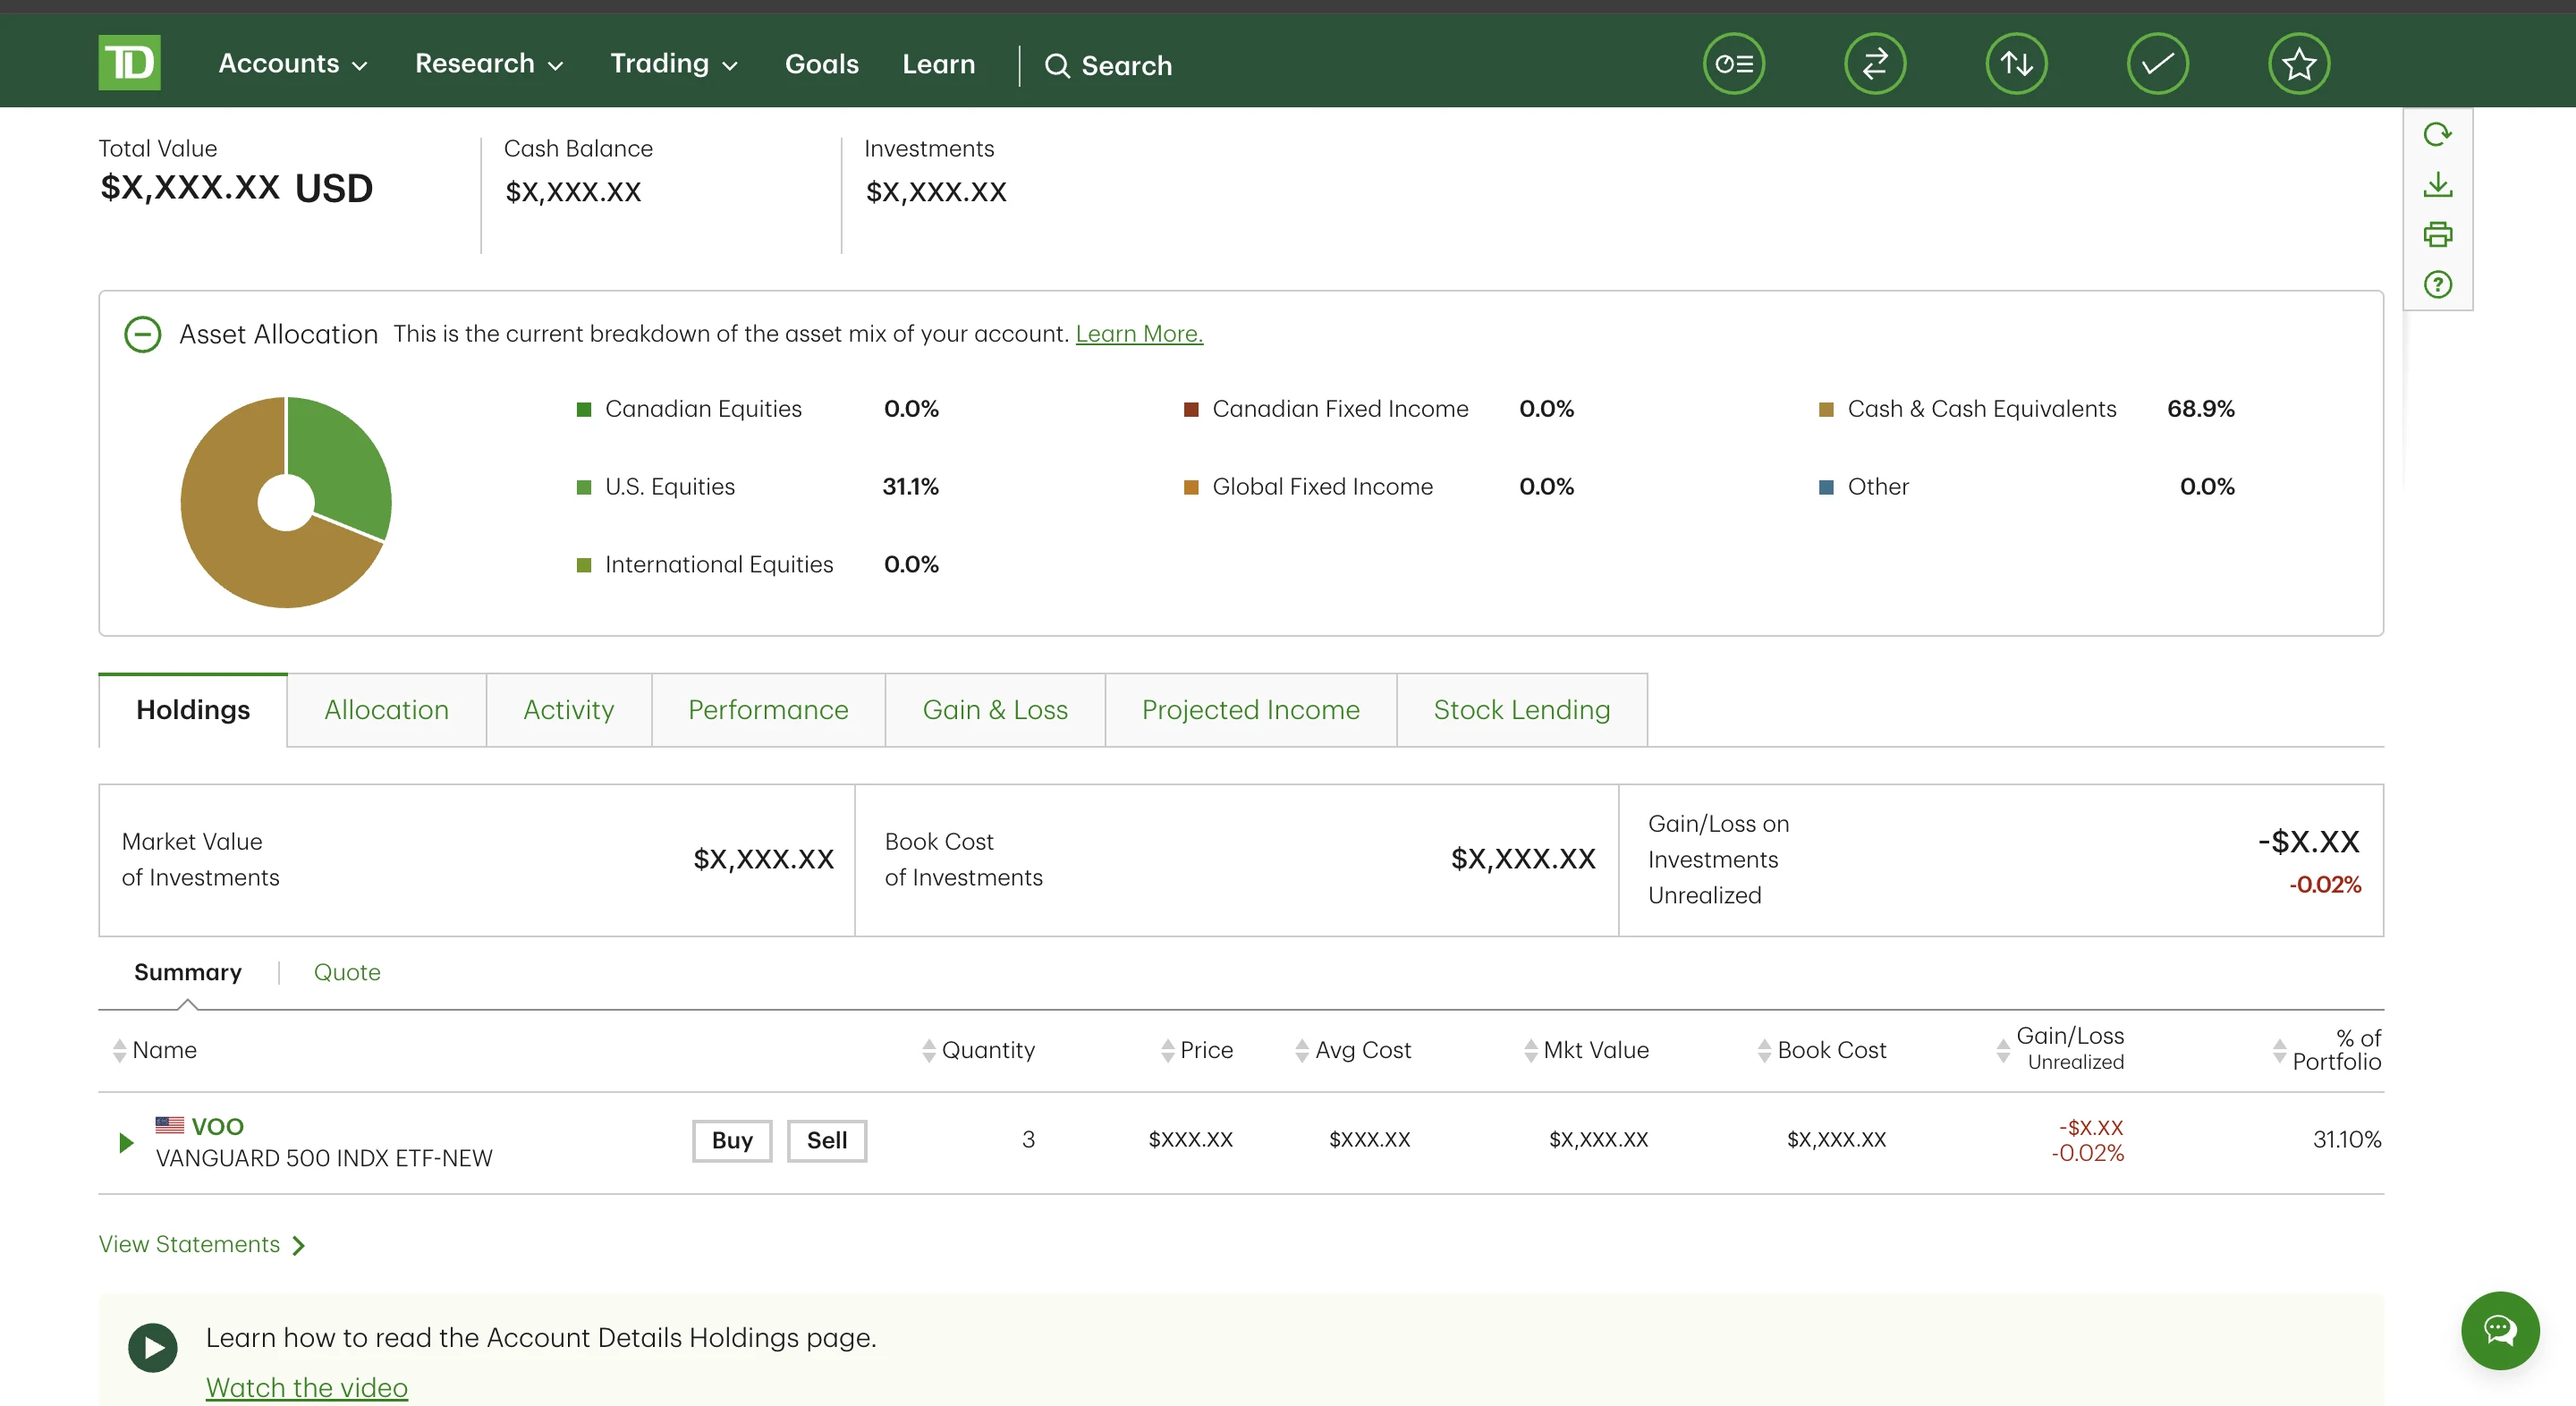
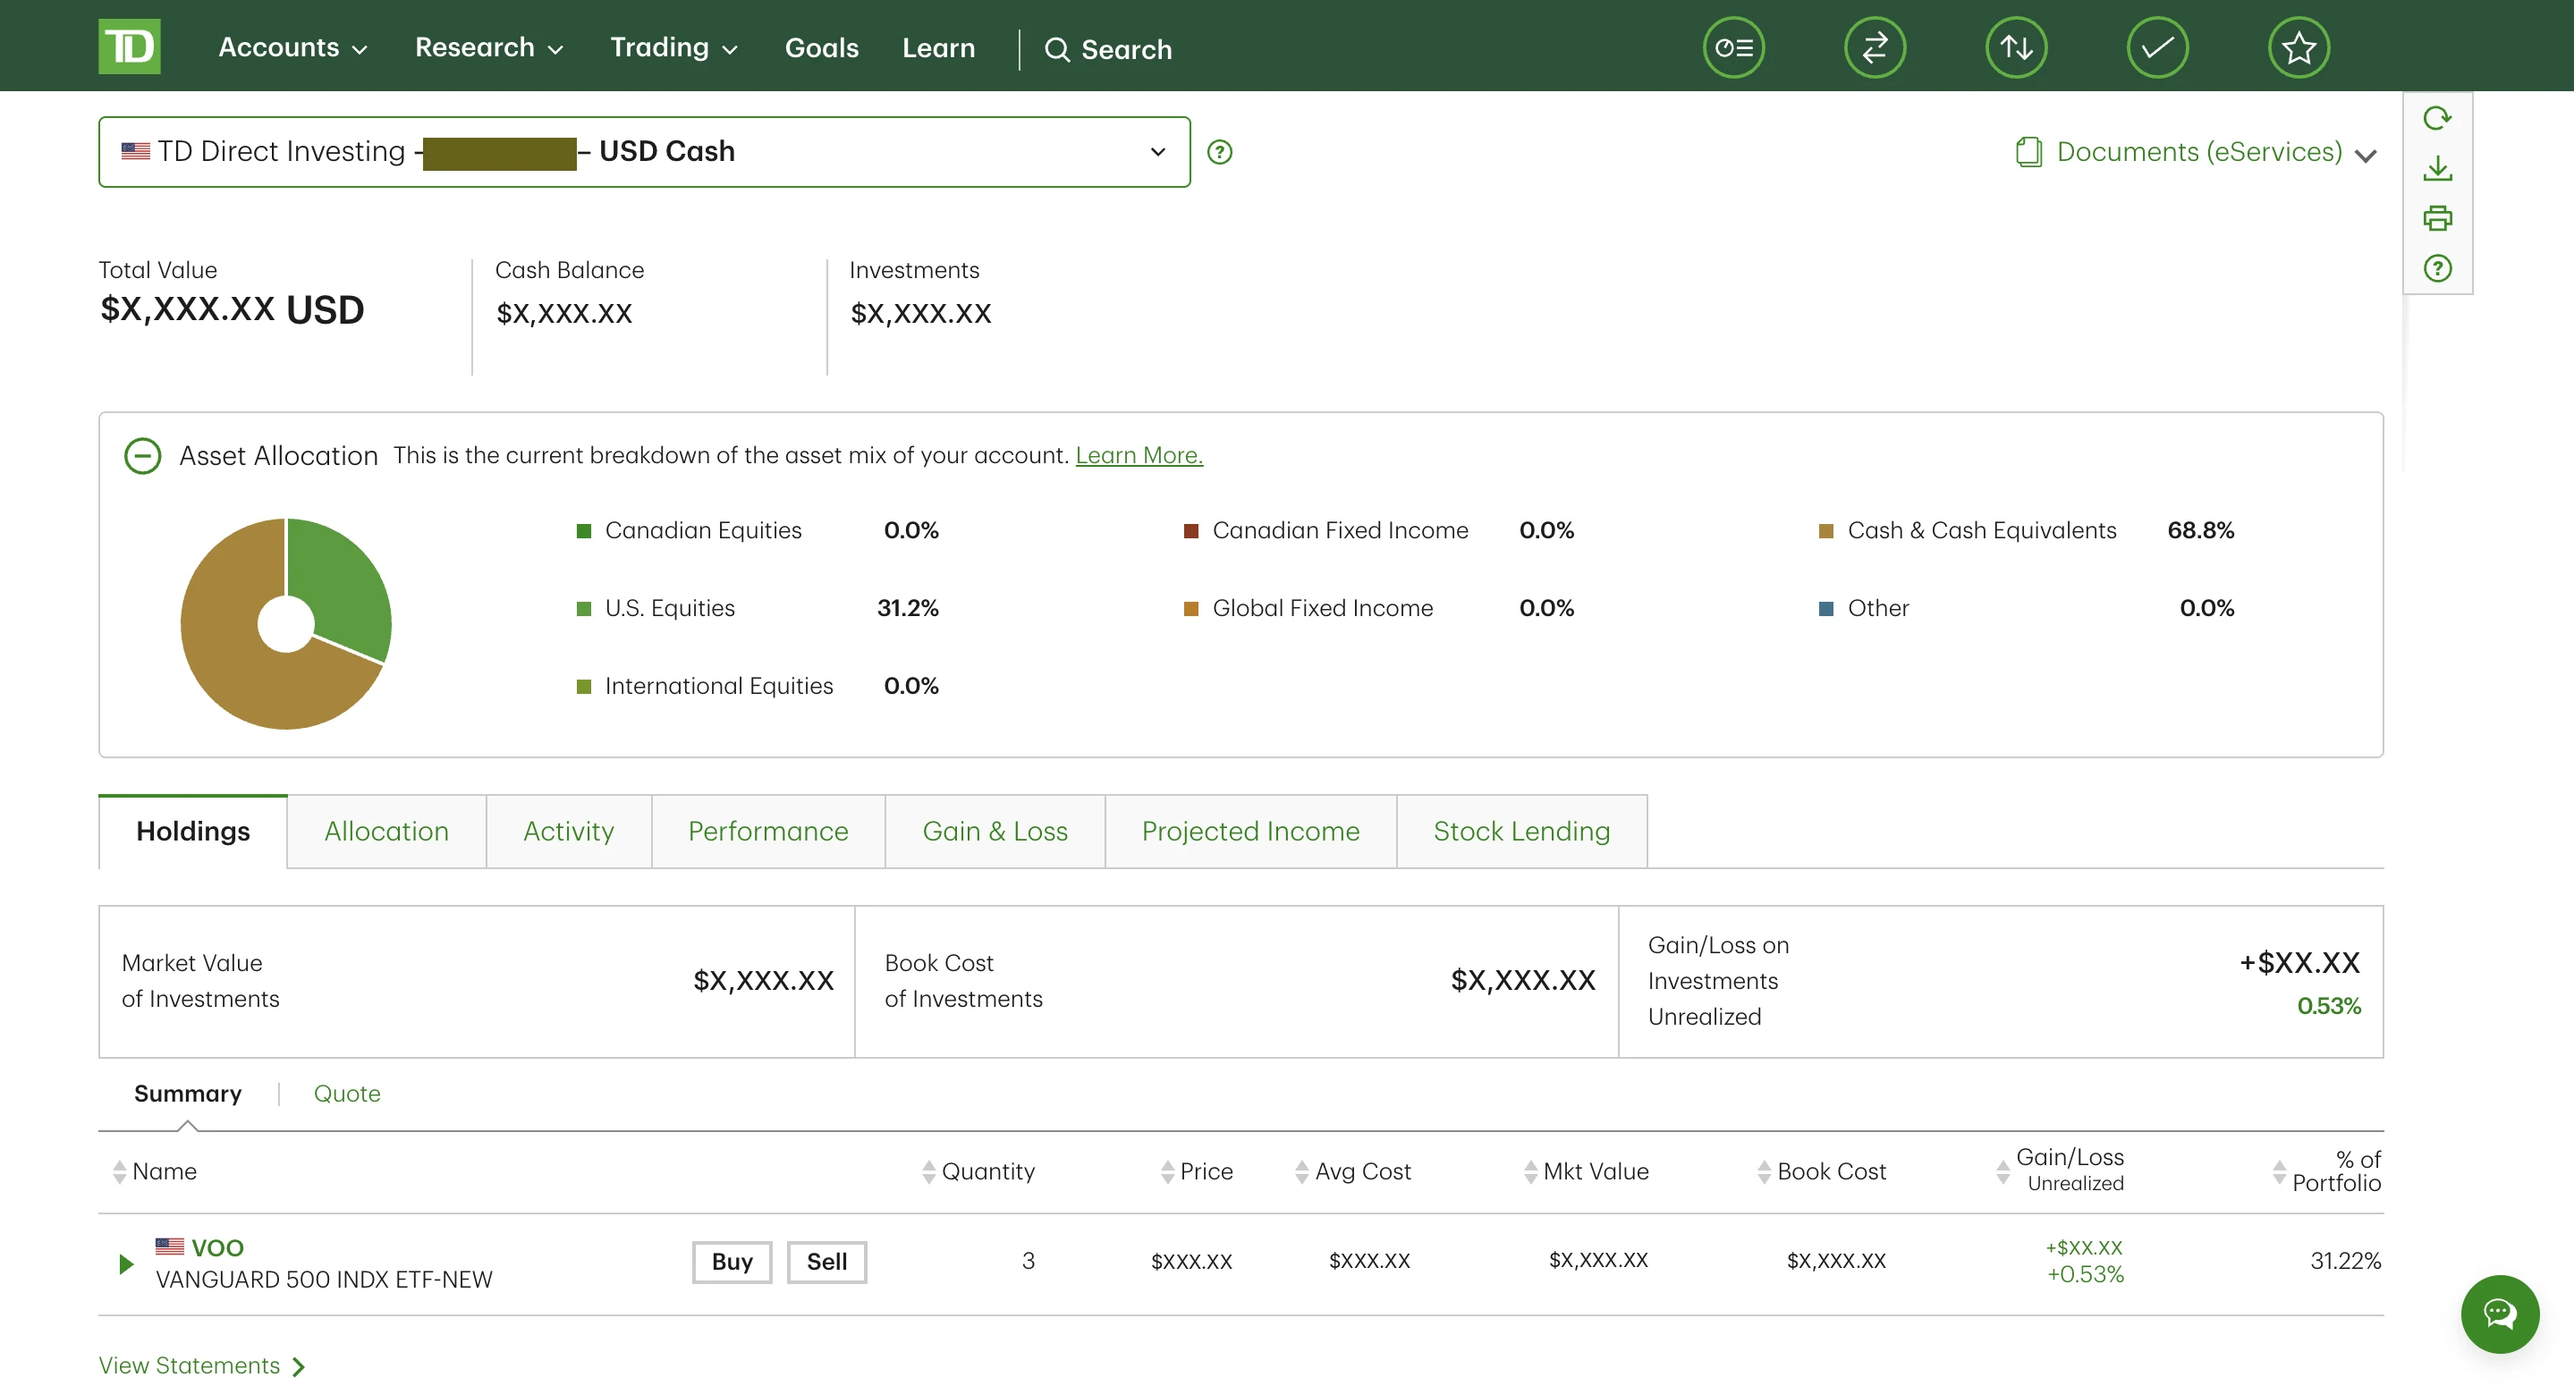
Add files via upload

diff --git a/index.html b/index.html
@@ -274,6 +274,9 @@ footer p{max-width:72ch; margin:0}
 .note-panel ul{margin:0; padding-left:18px; display:grid; gap:6px}
 .note-panel li::marker{color:var(--olive)}
 .note-lede{color:var(--ink)!important}
+.note-fig{margin:6px 0 14px}
+.note-fig img{display:block; width:100%; height:auto; border-radius:12px; border:1px solid var(--line); background:#f4f4f4}
+.note-fig figcaption{margin-top:7px; font-size:.74rem; color:var(--faint)}
 .note-stats{display:grid; grid-template-columns:repeat(4, minmax(0,1fr)); margin:20px 0 4px; border:1px solid var(--line); border-radius:12px; overflow:hidden}
 .note-stats div{padding:11px 14px}
 .note-stats div + div{border-left:1px solid var(--line)}
@@ -366,7 +369,7 @@ footer p{max-width:72ch; margin:0}
         </figure>
         <figure class="proof">
           <button class="shot" type="button" data-full="proof/usd-voo-2026-10-30.webp" aria-label="Enlarge the US-dollar account screenshot">
-            <img src="proof/usd-voo-2026-10-30.webp" width="2880" height="1572" loading="lazy" alt="TD Direct Investing USD account: 3 shares of VOO plus US-dollar cash, with each digit of the dollar amounts replaced with an X.">
+            <img src="proof/usd-voo-2026-10-30.webp" width="2878" height="1550" loading="lazy" alt="TD Direct Investing USD account: VOO position plus US-dollar cash, with the account number hidden and each digit of the dollar amounts replaced with an X.">
           </button>
           <figcaption class="proof-cap"><span><strong>USD account</strong> · VOO position and US-dollar cash</span><span class="num">Oct 30, 2026</span></figcaption>
         </figure>
@@ -420,7 +423,19 @@ footer p{max-width:72ch; margin:0}
       <li><strong>Discipline.</strong> With half the portfolio on autopilot, I&rsquo;m less tempted to overtrade or chase hot stocks, and my few individual picks get my full attention.</li>
     </ul>
     <h3>My plan</h3>
-    <p>I started the position on Oct 30, 2026, a day the market fell on big-tech earnings, and I&rsquo;m building it toward about half the portfolio. I&rsquo;ll add on dips toward a key monthly level, and if the market doesn&rsquo;t get there by the end of January, I&rsquo;ll keep buying about once a month anyway so I&rsquo;m not left waiting in cash.</p>
+    <p>I started the position on Oct 30, 2026, a day the market fell on big-tech earnings, and I&rsquo;m building it toward about half the portfolio. The monthly chart decides when I add the rest.</p>
+    <h3>Entry plan: the monthly chart</h3>
+    <figure class="note-fig">
+      <a href="img/voo-monthly-chart.webp" target="_blank" rel="noopener"><img src="img/voo-monthly-chart.webp" width="1741" height="1373" loading="lazy" alt="Monthly chart of S&amp;P 500 futures from 2020 to 2026, with Fibonacci retracements on each leg up. Pullbacks in October 2022, April 2025 and March 2026 each reversed in the 0.5 to 0.79 zone, and the current leg's 0.5 to 0.62 zone is marked as the area to add the last 25%."></a>
+      <figcaption>S&amp;P 500 futures (ES), monthly. Tap to open full size. Chart: TradingView.</figcaption>
+    </figure>
+    <p>Since 2022, every big rally in the S&amp;P 500 has pulled back to the same zone before the next leg up: the <strong>0.5&ndash;0.79 Fibonacci retracement</strong> of the move before it, which is also where the market had left a price imbalance gap on the way up.</p>
+    <ul>
+      <li><strong>October 2022:</strong> bottomed at the 0.79 level of the 2020&ndash;21 rally, then started the next leg.</li>
+      <li><strong>April 2025:</strong> the same pattern, turning around at the 0.79 level and the imbalance.</li>
+      <li><strong>March 2026:</strong> a shallower pullback into the 0.5&ndash;0.62 zone, which held.</li>
+    </ul>
+    <p><strong>My conditions:</strong> I bought the first 25% near the top of the current leg. If the market pulls back into this leg&rsquo;s 0.5&ndash;0.62 zone (about 7,150&ndash;7,250 on S&amp;P 500 futures, roughly 5% below today), I add the last 25% there. If it doesn&rsquo;t get there, I add gradually from January to March instead. Past patterns don&rsquo;t guarantee the next one, which is why the time-based fallback exists.</p>
     <h3>What would change it</h3>
     <p>Nothing about a single company. A falling market is when I add, not when I sell. I&rsquo;d only change this plan if my goals or time horizon change.</p>
   </article>
